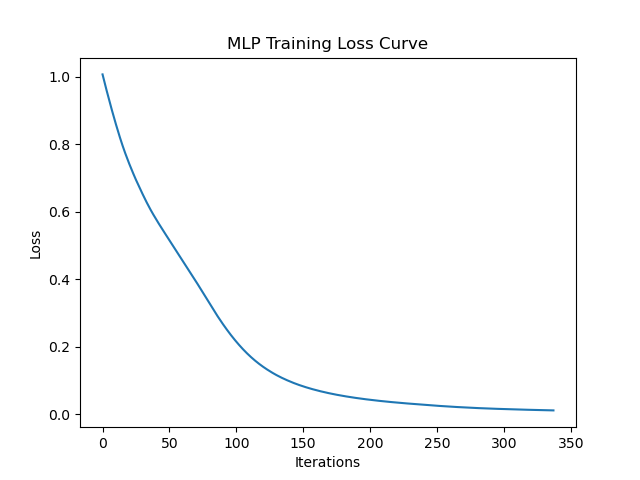
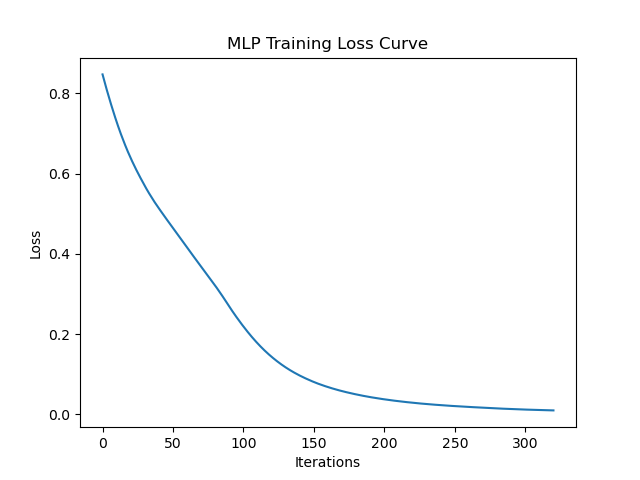
Add Class Weighted MLP, Threshold Tuning, and Outlier Detection Visualizations

diff --git a/scripts/mlp_classifier.py b/scripts/mlp_classifier.py
@@ -3,7 +3,9 @@ import numpy as np
 import pandas as pd
 import matplotlib.pyplot as plt
 import seaborn as sns
+from scipy.stats import zscore
 
+from imblearn.over_sampling import SMOTE
 from sklearn.model_selection import train_test_split, GridSearchCV
 from sklearn.preprocessing import StandardScaler
 from sklearn.neural_network import MLPClassifier
@@ -67,15 +69,38 @@ X_train_scaled = scaler.fit_transform(X_train)
 X_test_scaled = scaler.transform(X_test)
 
 # ============================================
-# Baseline MLP Model
+# Outlier detection
 # ============================================
-mlp = MLPClassifier(hidden_layer_sizes=(32, 16), activation="relu", solver="adam", max_iter=1000, random_state=42)
-mlp.fit(X_train_scaled, y_train)
+z_scores = np.abs(zscore(X_train_scaled))
+outliers = np.where(z_scores > 3)
+print("Outliers")
+print (outliers)
+plt.figure(figsize=(10,6))
+sns.boxplot(data=X_train, orient="h")
+plt.title("Feature Distributions with Outliers")
+plt.xlabel("Value")
+plt.ylabel("Feature")
+plt.tight_layout()
+plt.savefig(f"{IMAGE_FOLDER}/mlp_outliers.png")
+plt.close()
+
 
 # ============================================
-# Evaluation
+# Baseline MLP Model
 # ============================================
-y_pred = mlp.predict(X_test_scaled)
+smote = SMOTE(random_state=42)
+X_train_bal, y_train_bal = smote.fit_resample(X_train_scaled, y_train)
+
+mlp = MLPClassifier(hidden_layer_sizes=(32,16), activation="relu", solver="adam", max_iter=1000, random_state=42)
+mlp.fit(X_train_bal, y_train_bal)
+
+# ============================================
+# Threshold tuning & Evaluation
+# ============================================
+y_prob = mlp.predict_proba(X_test_scaled)[:,1]
+threshold = 0.4  
+y_pred = (y_prob >= threshold).astype(int)
+
 
 report = classification_report(y_test, y_pred, output_dict=True)
 pd.DataFrame(report).transpose().to_csv(f"{OUTPUT_FOLDER}/mlp_classification_report.csv")
